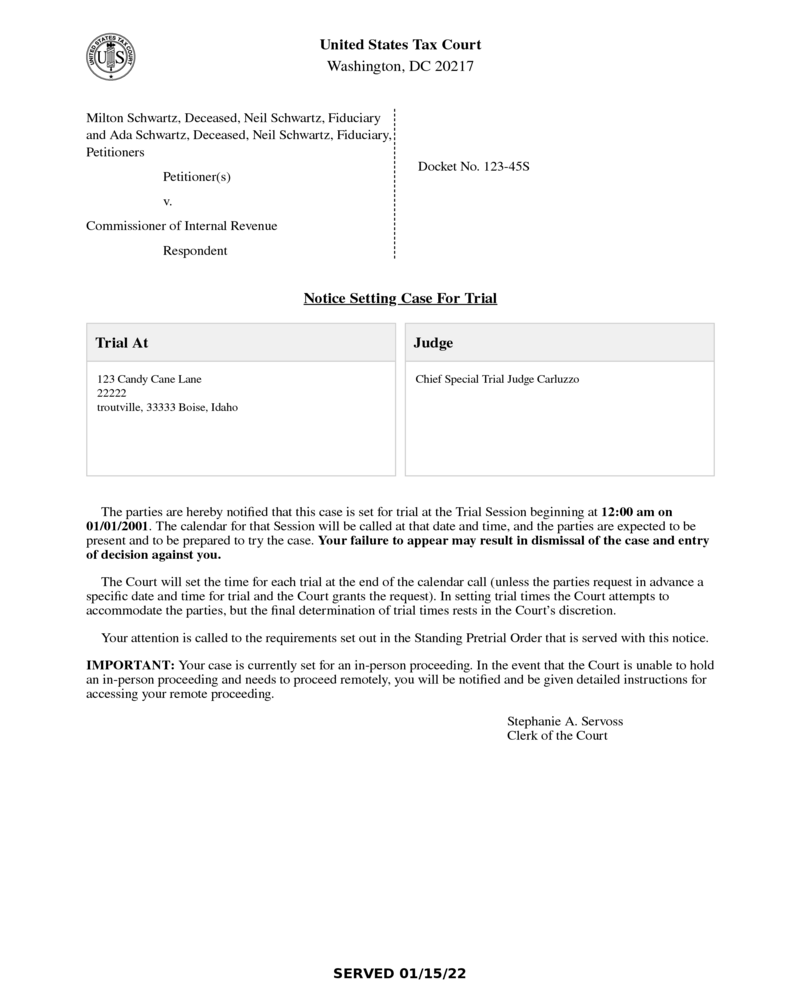
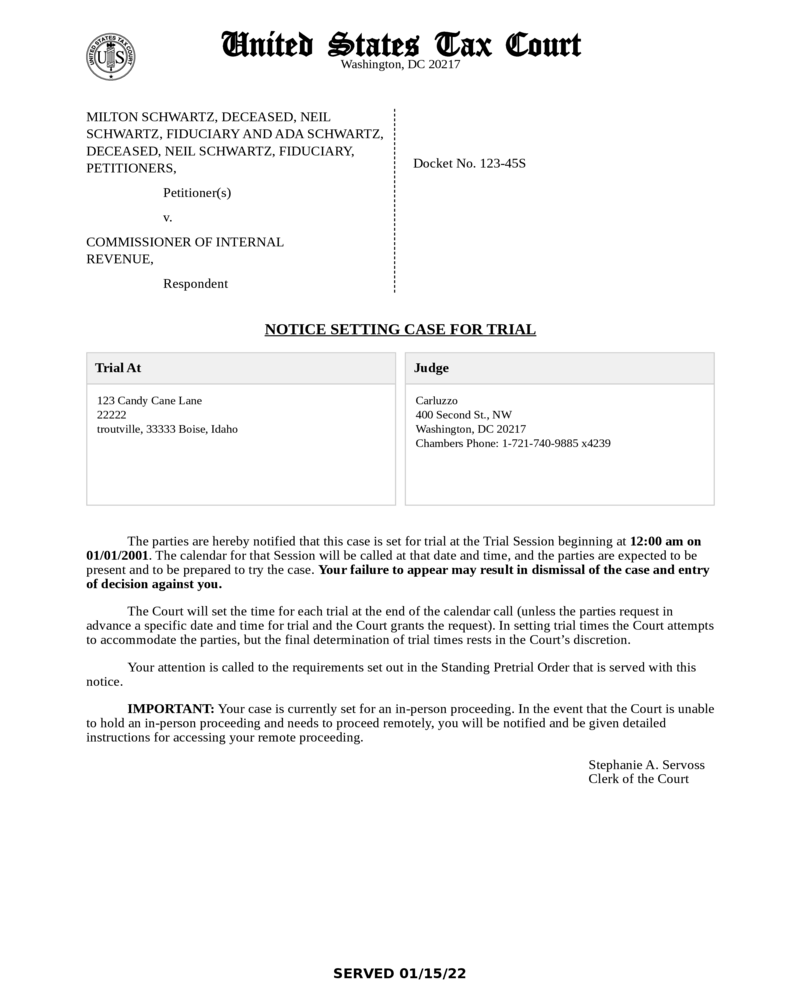
10076: standardize formatting rules

diff --git a/shared/src/business/utilities/pdfGenerator/documentTemplates/NoticeOfTrialIssued.tsx b/shared/src/business/utilities/pdfGenerator/documentTemplates/NoticeOfTrialIssued.tsx
@@ -1,7 +1,9 @@
 import { FormattedTrialInfoType } from '@web-api/business/useCases/trialSessions/generateNoticeOfTrialIssuedInteractor';
+import { DocumentParagraphIndent } from '../components/DocumentParagraphIndent';
 import { ClerkOfTheCourtSignature } from '../components/ClerkOfTheCourtSignature';
-import { DocketHeader } from '../components/DocketHeader';
-import { PrimaryHeader } from '../components/PrimaryHeader';
+import { NoticeSettingCaseForTrialDocketHeader } from '../components/NoticeSettingCaseForTrialDocketHeader';
+import { OrderPrimaryHeader } from '../components/OrderPrimaryHeader';
+import { TrialNoticeJudgeInfoBox } from '../components/TrialNoticeJudgeInfoBox';
 import React from 'react';
 
 export const NoticeOfTrialIssued = ({
@@ -21,12 +23,11 @@ export const NoticeOfTrialIssued = ({
 }) => {
   return (
     <div id="notice-of-trial-pdf">
-      <PrimaryHeader />
-      <DocketHeader
+      <OrderPrimaryHeader />
+      <NoticeSettingCaseForTrialDocketHeader
         caseCaptionExtension={caseCaptionExtension}
         caseTitle={caseTitle}
         docketNumberWithSuffix={docketNumberWithSuffix}
-        documentTitle="Notice Setting Case For Trial"
       />
       <div>
         <div className="info-box info-box-trial" id="trial-info">
@@ -37,15 +38,16 @@ export const NoticeOfTrialIssued = ({
           </div>
         </div>
 
-        <div className="info-box info-box-judge" id="judge-info">
-          <div className="info-box-header">Judge</div>
-          <div className="info-box-content">{trialInfo.formattedJudge}</div>
-        </div>
+        <TrialNoticeJudgeInfoBox
+          chambersPhoneNumber={trialInfo.chambersPhoneNumber}
+          judgeLastName={trialInfo.formattedJudge || 'Not assigned'}
+        />
         <div className="clear" />
       </div>
 
       <div id="notice-body">
         <p>
+          <DocumentParagraphIndent />
           The parties are hereby notified that this case is set for trial at the
           Trial Session beginning at {trialInfo.formattedStartTime} on{' '}
           {trialInfo.formattedStartDate}. The calendar for that Session will be
@@ -55,22 +57,31 @@ export const NoticeOfTrialIssued = ({
           dismissal of the case and entry of decision against you.
         </p>
         <p>
+          <DocumentParagraphIndent />
           The Court will set the time for each trial at the end of the calendar
           call. In setting trial times the Court attempts to accommodate the
           parties, but the final determination of trial times rests in the
           Court’s discretion.
         </p>
 
-        <p className="text-underline">ACCESS REMOTE PROCEEDING</p>
-        <p>Your Meeting ID and Passcode for the remote proceeding are:</p>
         <p className="text-center">
+          <span className="text-underline">ACCESS REMOTE PROCEEDING</span>
+        </p>
+        <p>
+          <DocumentParagraphIndent />
+          Your Meeting ID and Passcode for the remote proceeding are:
+        </p>
+        <p className="text-center">
+          <DocumentParagraphIndent />
           <b>Meeting ID:</b> {trialInfo.meetingId}
         </p>
         <p className="text-center">
+          <DocumentParagraphIndent />
           <b>Passcode:</b> {trialInfo.password}
         </p>
 
         <p>
+          <DocumentParagraphIndent />
           Join online: Go to{' '}
           <a href="https://www.zoomgov.com" rel="noreferrer" target="_blank">
             www.zoomgov.com
@@ -80,11 +91,13 @@ export const NoticeOfTrialIssued = ({
         </p>
 
         <p>
+          <DocumentParagraphIndent />
           Join by telephone: Call {trialInfo.joinPhoneNumber}. Enter the Meeting
           ID and Passcode above when prompted.
         </p>
 
         <p>
+          <DocumentParagraphIndent />
           There are specific requirements in the Standing Pretrial Order that is
           served with this Notice. The parties should contact each other
           promptly and cooperate fully so that the necessary steps can be taken
@@ -92,10 +105,12 @@ export const NoticeOfTrialIssued = ({
           result in dismissal of the case and entry of decision against you.
         </p>
 
-        <ClerkOfTheCourtSignature
-          nameOfClerk={nameOfClerk}
-          titleOfClerk={titleOfClerk}
-        />
+        <div id="notice-clerk-signature">
+          <ClerkOfTheCourtSignature
+            nameOfClerk={nameOfClerk}
+            titleOfClerk={titleOfClerk}
+          />
+        </div>
       </div>
     </div>
   );

diff --git a/shared/src/business/utilities/pdfGenerator/documentTemplates/NoticeOfTrialIssuedInPerson.tsx b/shared/src/business/utilities/pdfGenerator/documentTemplates/NoticeOfTrialIssuedInPerson.tsx
@@ -1,7 +1,9 @@
-import { ClerkOfTheCourtSignature } from '../components/ClerkOfTheCourtSignature';
-import { DocketHeader } from '../components/DocketHeader';
 import { FormattedTrialInfoType } from '@web-api/business/useCases/trialSessions/generateNoticeOfTrialIssuedInteractor';
-import { PrimaryHeader } from '../components/PrimaryHeader';
+import { DocumentParagraphIndent } from '../components/DocumentParagraphIndent';
+import { ClerkOfTheCourtSignature } from '../components/ClerkOfTheCourtSignature';
+import { NoticeSettingCaseForTrialDocketHeader } from '../components/NoticeSettingCaseForTrialDocketHeader';
+import { OrderPrimaryHeader } from '../components/OrderPrimaryHeader';
+import { TrialNoticeJudgeInfoBox } from '../components/TrialNoticeJudgeInfoBox';
 import React from 'react';
 
 export const NoticeOfTrialIssuedInPerson = ({
@@ -21,12 +23,11 @@ export const NoticeOfTrialIssuedInPerson = ({
 }) => {
   return (
     <div id="notice-of-trial-pdf">
-      <PrimaryHeader />
-      <DocketHeader
+      <OrderPrimaryHeader />
+      <NoticeSettingCaseForTrialDocketHeader
         caseCaptionExtension={caseCaptionExtension}
         caseTitle={caseTitle}
         docketNumberWithSuffix={docketNumberWithSuffix}
-        documentTitle={'Notice Setting Case For Trial'}
       />
       <div>
         <div className="info-box info-box-trial" id="trial-info">
@@ -41,15 +42,16 @@ export const NoticeOfTrialIssuedInPerson = ({
           </div>
         </div>
 
-        <div className="info-box info-box-judge" id="judge-info">
-          <div className="info-box-header">Judge</div>
-          <div className="info-box-content">{trialInfo.formattedJudge}</div>
-        </div>
+        <TrialNoticeJudgeInfoBox
+          chambersPhoneNumber={trialInfo.chambersPhoneNumber}
+          judgeLastName={trialInfo.formattedJudge || 'Not assigned'}
+        />
         <div className="clear" />
       </div>
 
       <div id="notice-body">
-        <p className="indent-paragraph">
+        <p>
+          <DocumentParagraphIndent />
           The parties are hereby notified that this case is set for trial at the
           Trial Session beginning at{' '}
           <b>
@@ -63,28 +65,33 @@ export const NoticeOfTrialIssuedInPerson = ({
             of decision against you.
           </b>
         </p>
-        <p className="indent-paragraph">
+        <p>
+          <DocumentParagraphIndent />
           The Court will set the time for each trial at the end of the calendar
           call (unless the parties request in advance a specific date and time
           for trial and the Court grants the request). In setting trial times
           the Court attempts to accommodate the parties, but the final
           determination of trial times rests in the Court’s discretion.
         </p>
-        <p className="indent-paragraph">
+        <p>
+          <DocumentParagraphIndent />
           Your attention is called to the requirements set out in the Standing
           Pretrial Order that is served with this notice.
         </p>
         <p>
+          <DocumentParagraphIndent />
           <b>IMPORTANT:</b> Your case is currently set for an in-person
           proceeding. In the event that the Court is unable to hold an in-person
           proceeding and needs to proceed remotely, you will be notified and be
           given detailed instructions for accessing your remote proceeding.
         </p>
 
-        <ClerkOfTheCourtSignature
-          nameOfClerk={nameOfClerk}
-          titleOfClerk={titleOfClerk}
-        />
+        <div id="notice-clerk-signature">
+          <ClerkOfTheCourtSignature
+            nameOfClerk={nameOfClerk}
+            titleOfClerk={titleOfClerk}
+          />
+        </div>
       </div>
     </div>
   );

diff --git a/shared/src/business/utilities/pdfGenerator/components/NoticeSettingCaseForTrialDocketHeader.tsx b/shared/src/business/utilities/pdfGenerator/components/NoticeSettingCaseForTrialDocketHeader.tsx
@@ -1,0 +1,32 @@
+import React from 'react';
+
+export const NoticeSettingCaseForTrialDocketHeader = ({
+  caseCaptionExtension,
+  caseTitle,
+  docketNumberWithSuffix,
+}: {
+  caseCaptionExtension: string;
+  caseTitle: string;
+  docketNumberWithSuffix: string;
+}) => {
+  return (
+    <div className="order-docket-header">
+      <div id="caption">
+        <div id="caption-title">{caseTitle.toUpperCase()},</div>
+        <div id="caption-extension">{caseCaptionExtension}</div>
+        <div id="caption-v">v.</div>
+        <div id="caption-commissioner">
+          COMMISSIONER OF INTERNAL
+          <br />
+          REVENUE,
+        </div>
+        <div id="caption-respondent">Respondent</div>
+      </div>
+      <div id="docket-number">Docket No. {docketNumberWithSuffix}</div>
+      <div className="clear"></div>
+      <h3 className="document-title underline">
+        NOTICE SETTING CASE FOR TRIAL
+      </h3>
+    </div>
+  );
+};

diff --git a/shared/src/business/utilities/documentGenerators/noticeOfTrialIssuedInPerson.test.ts b/shared/src/business/utilities/documentGenerators/noticeOfTrialIssuedInPerson.test.ts
@@ -26,7 +26,8 @@ describe('noticeOfTrialIssuedInPerson', () => {
             address1: '123 Candy Cane Lane',
             address2: '22222',
             city: 'troutville',
-            formattedJudge: 'Chief Special Trial Judge Carluzzo',
+            formattedJudge: 'Carluzzo',
+            chambersPhoneNumber: '1-721-740-9885 x4239',
             formattedStartDate: '01/01/2001',
             formattedStartTime: '12:00 am',
             postalCode: 'Boise, Idaho',
@@ -43,7 +44,7 @@ describe('noticeOfTrialIssuedInPerson', () => {
             termYear: '2001',
             trialSessionId: '111-111-112',
             paperServicePdfs: [],
-            hasNottBeenServed: false
+            hasNottBeenServed: false,
           },
         },
       }),

diff --git a/web-api/src/business/useCases/trialSessions/generateNoticeOfTrialIssuedInteractor.ts b/web-api/src/business/useCases/trialSessions/generateNoticeOfTrialIssuedInteractor.ts
@@ -56,7 +56,7 @@ export const generateNoticeOfTrialIssuedInteractor = async (
   );
   const formattedStartTime = formatDateString(trialStartTimeIso, FORMATS.TIME);
 
-  const judgeWithTitle = await getJudgeWithTitle({
+  await getJudgeWithTitle({
     judgeUserName: trialSession.judge?.name,
   });
 
@@ -72,7 +72,7 @@ export const generateNoticeOfTrialIssuedInteractor = async (
     title: string;
   };
   const trialInfo: FormattedTrialInfoType = {
-    formattedJudge: judgeWithTitle,
+    formattedJudge: trialSession.judge?.name || 'Not assigned',
     formattedStartDate,
     formattedStartTime,
     ...trialSession,

diff --git a/shared/src/business/utilities/pdfGenerator/components/TrialNoticeJudgeInfoBox.tsx b/shared/src/business/utilities/pdfGenerator/components/TrialNoticeJudgeInfoBox.tsx
@@ -1,0 +1,21 @@
+import React from 'react';
+
+export const TrialNoticeJudgeInfoBox = ({
+  chambersPhoneNumber,
+  judgeLastName,
+}: {
+  judgeLastName: string;
+  chambersPhoneNumber?: string;
+}) => {
+  return (
+    <div className="info-box info-box-judge" id="judge-info">
+      <div className="info-box-header">Judge</div>
+      <div className="info-box-content">
+        <div>{judgeLastName}</div>
+        <div>400 Second St., NW</div>
+        <div>Washington, DC 20217</div>
+        <div>Chambers Phone: {chambersPhoneNumber}</div>
+      </div>
+    </div>
+  );
+};

diff --git a/shared/src/business/utilities/documentGenerators/noticeOfTrialIssued.test.ts b/shared/src/business/utilities/documentGenerators/noticeOfTrialIssued.test.ts
@@ -18,7 +18,7 @@ describe('documentGenerators', () => {
           nameOfClerk: 'Stephanie A. Servoss',
           titleOfClerk: 'Clerk of the Court',
           trialInfo: {
-            formattedJudge: 'Chief Special Trial Judge Carluzzo',
+            formattedJudge: 'Carluzzo',
             formattedStartDate: '01/01/2001',
             formattedStartTime: '12:00 am',
             joinPhoneNumber: '444-444-4444',

diff --git a/shared/src/business/entities/EntityConstants.ts b/shared/src/business/entities/EntityConstants.ts
@@ -23,6 +23,9 @@ export const STATE_KEYS = {
   CASE_LIST_TABLE_SORT: 'CASE_LIST_TABLE_SORT',
 } as const;
 
+// Three em spaces — equivalent to '&emsp;&emsp;&emsp;' and works in both JSX and HTML strings.
+export const INDENT = '\u2003\u2003\u2003';
+
 export const DEBOUNCE_TIME_MILLISECONDS = 500;
 
 // if repeatedly using the same rules to validate how an input should be formatted, capture it here.

diff --git a/shared/src/business/utilities/htmlGenerator/documents/notice-of-trial-issued.scss b/shared/src/business/utilities/htmlGenerator/documents/notice-of-trial-issued.scss
@@ -12,11 +12,19 @@
     line-height: 15px;
   }
 
-  #notice-body > p {
-    margin-top: 0;
+  #notice-body {
+    > p {
+      margin-top: 0;
+    }
+
+    #notice-clerk-signature p {
+      width: auto;
+      margin-top: 0;
+      margin-right: 10px;
+    }
   }
 
-  #docket-header {
+  .order-docket-header {
     .document-title {
       margin-bottom: 0;
     }

diff --git a/shared/src/business/utilities/pdfGenerator/components/DocumentParagraphIndent.tsx b/shared/src/business/utilities/pdfGenerator/components/DocumentParagraphIndent.tsx
@@ -1,0 +1,4 @@
+import { INDENT } from '@shared/business/entities/EntityConstants';
+import React from 'react';
+
+export const DocumentParagraphIndent = () => <>{INDENT}</>;
